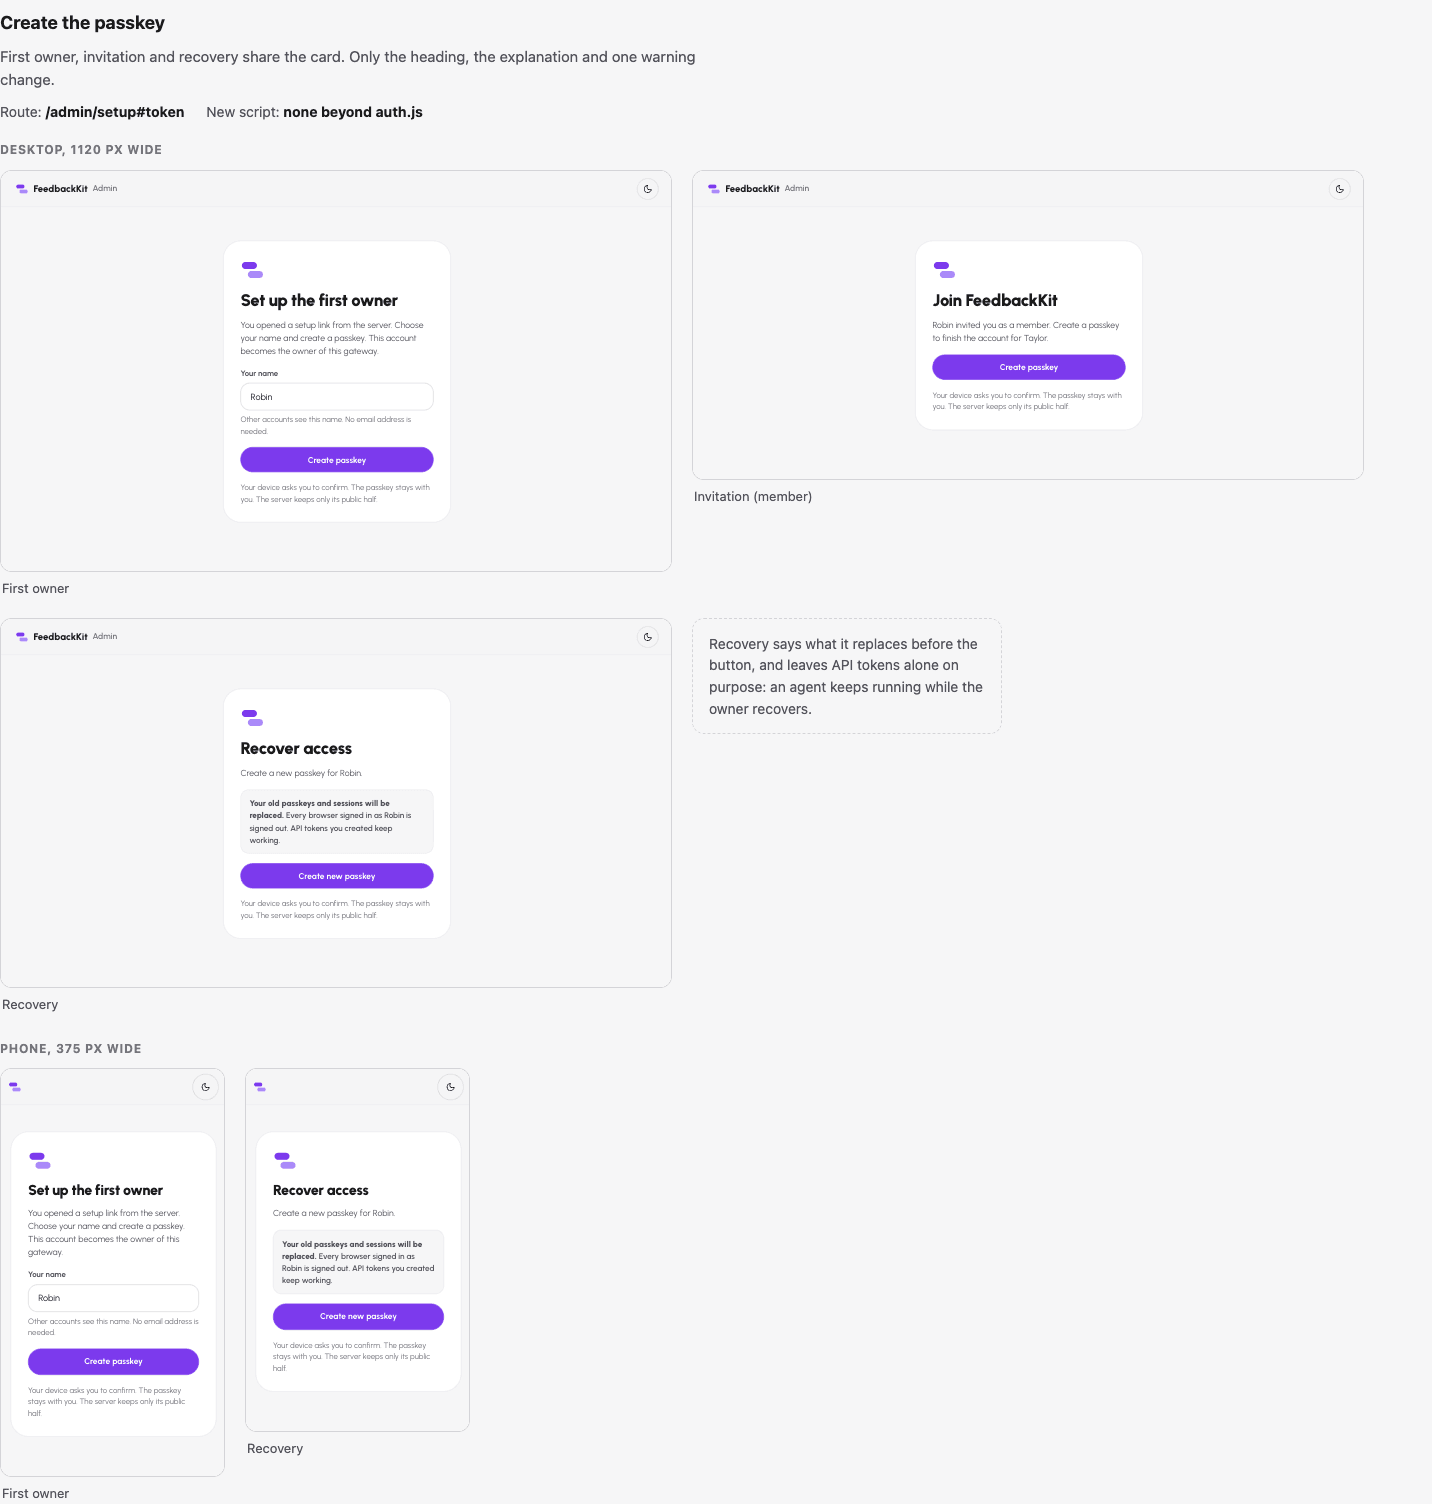
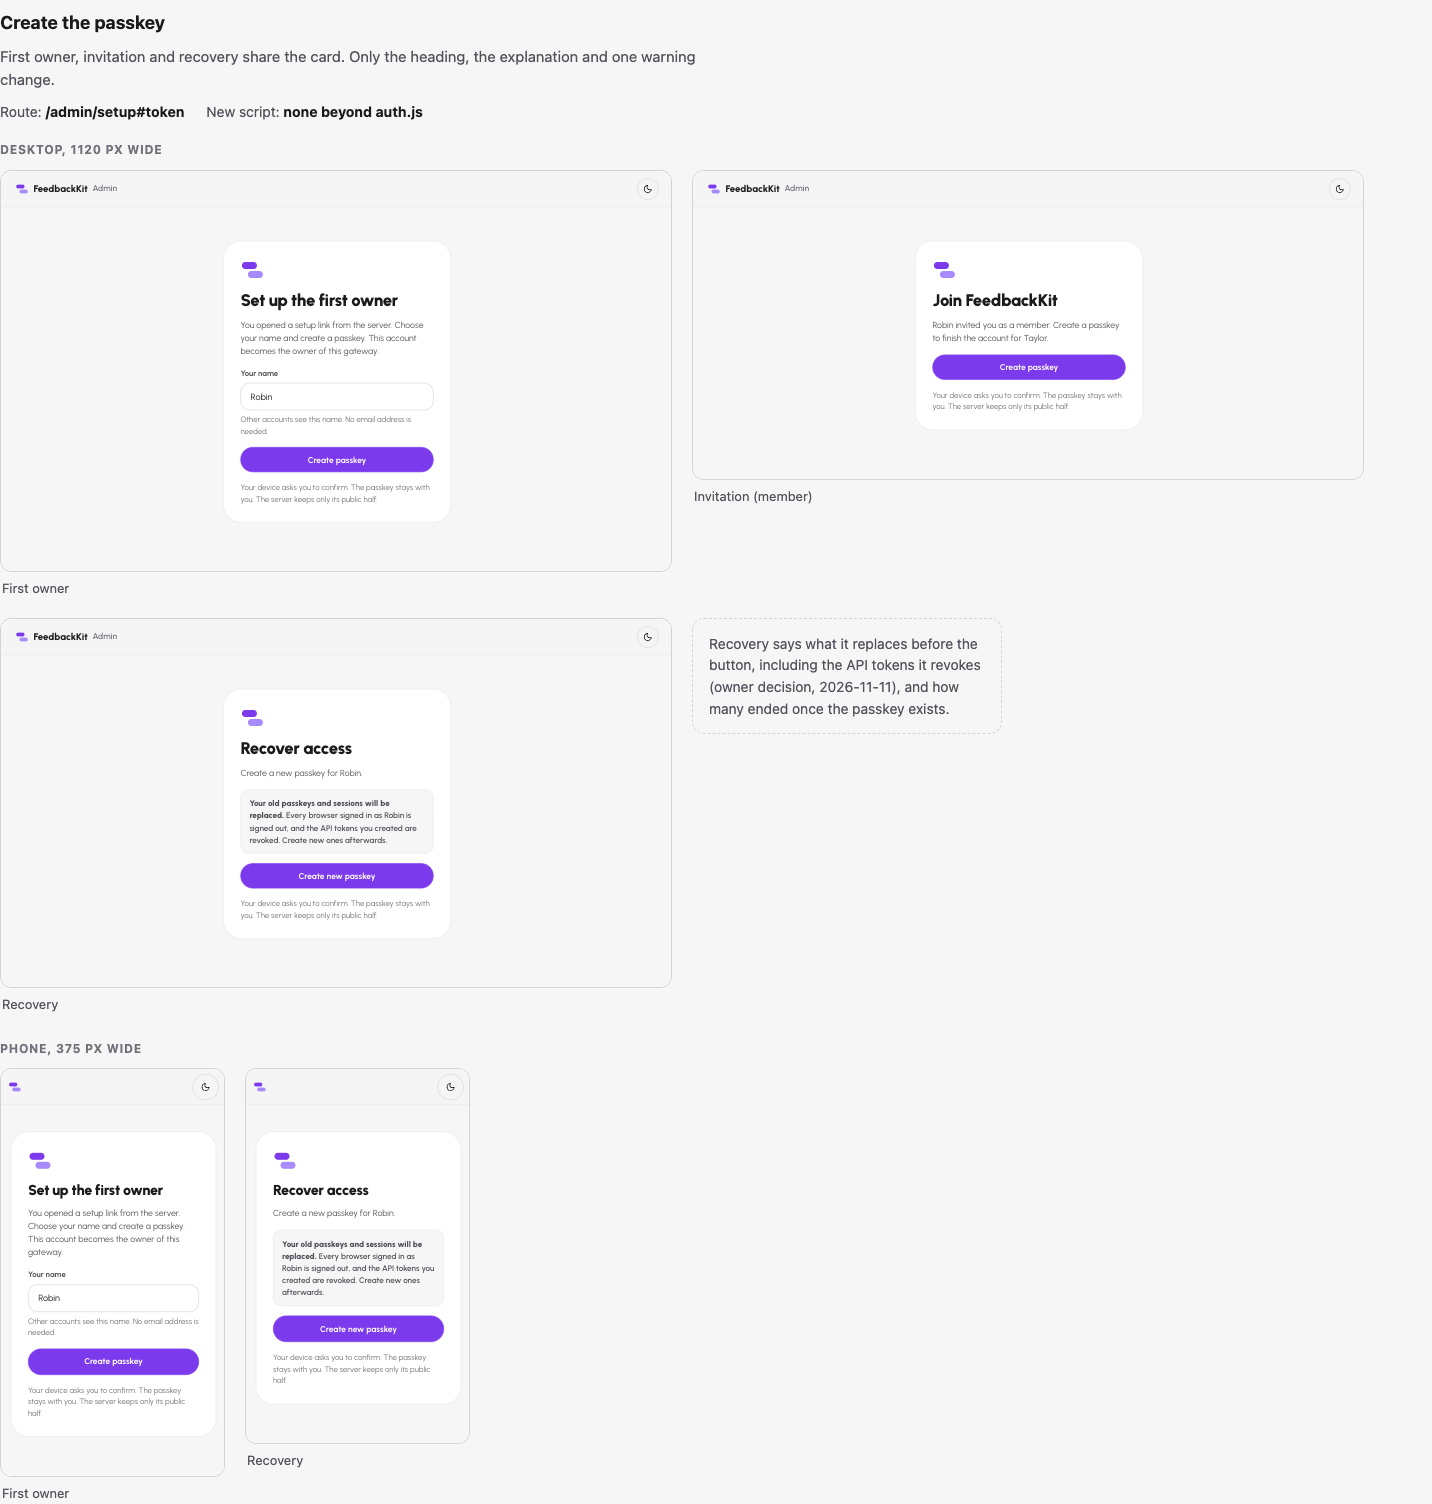
Record the owner's three answers in the mock: recovery revokes the account's API tokens

diff --git a/docs/design/mockups/accounts.html b/docs/design/mockups/accounts.html
@@ -70,7 +70,7 @@ table.cmp tr:last-child td{border-bottom:0}
     <li><a href="#tokens">6 API tokens</a></li>
     <li><a href="#compare">Side by side</a></li>
     <li><a href="#recommendation">Recommendation</a></li>
-    <li><a href="#questions">Open questions</a></li>
+    <li><a href="#questions">Decided</a></li>
   </ul>
 
   <div class="cols">
@@ -134,12 +134,13 @@ table.cmp tr:last-child td{border-bottom:0}
   </section>
 
   <section class="variant" id="questions">
-    <h2>Open questions</h2>
+    <h2>Decided</h2>
     <div class="panel" style="max-width:900px">
+      <p class="help">Answered by the owner on 2026-11-11 ("Ja, wie empfohlen"). The copy below follows them.</p>
       <ul>
-        <li><b>Member access.</b> Until Step 4, a member can use the whole admin except accounts and tokens. The mock says so in the invitation dialog. Is that acceptable for an interim?</li>
-        <li><b>Token limits.</b> A token limited to some projects cannot create projects or open System. The mock states it in the create dialog. Confirm that rule or ask for another.</li>
-        <li><b>Recovery and API tokens.</b> Recovery replaces passkeys and sessions and leaves API tokens running, so an agent keeps working while the owner recovers. After a suspected break-in, tokens stay a way in until someone revokes them. Should recovery revoke them too?</li>
+        <li><b>Member access.</b> Until Step 4, a member can use the whole admin except accounts and tokens. The invitation dialog says so.</li>
+        <li><b>Token limits.</b> A token limited to some projects cannot create projects or open System. The create dialog says so.</li>
+        <li><b>Recovery and API tokens.</b> Recovery revokes the API tokens that account created, because recovery is also the path after a lost or exposed credential. The owner creates new tokens afterwards. The setup page says so before the passkey is created and says how many ended afterwards; the host command has <code>--keep-tokens</code> to opt out.</li>
       </ul>
     </div>
   </section>
@@ -448,10 +449,10 @@ const SETUP_MSG = {
 function setupPage(kind, state) {
   const c = SETUP_COPY[kind];
   const lead = '<svg width="40" height="40" aria-hidden="true"><use href="#mark"/></svg>';
-  const warn = kind === "recovery" ? '<div class="note"><b>Your old passkeys and sessions will be replaced.</b> Every browser signed in as Robin is signed out. API tokens you created keep working.</div>' : "";
+  const warn = kind === "recovery" ? '<div class="note"><b>Your old passkeys and sessions will be replaced.</b> Every browser signed in as Robin is signed out, and the API tokens you created are revoked. Create new ones afterwards.</div>' : "";
   let card;
   if (state === "done") {
-    card = '<div class="login-card">' + lead + '<h1>Passkey created</h1><p>You are signed in as Robin, ' + (kind === "invite" ? "member" : "owner") + '.</p>' + (kind === "recovery" ? "" : '<div class="note" role="status">Add a second passkey in Your account, so that losing this one does not lock you out.</div>') + '<a class="b violet full" href="#">Open the admin</a></div>';
+    card = '<div class="login-card">' + lead + '<h1>Passkey created</h1><p>You are signed in as Robin, ' + (kind === "invite" ? "member" : "owner") + '.</p>' + (kind === "recovery" ? '<div class="note" role="status">2 API tokens you created were revoked. Create new ones under API tokens.</div>' : '<div class="note" role="status">Add a second passkey in Your account, so that losing this one does not lock you out.</div>') + '<a class="b violet full" href="#">Open the admin</a></div>';
   } else if (state === "badlink") {
     const next = kind === "first" ? "Run <code class=\"mono\">feedbackkit-admin setup-link</code> on the server for a new link." : kind === "invite" ? "Ask an owner for a new invitation." : "Run <code class=\"mono\">feedbackkit-admin recovery-link</code> on the server for a new link.";
     card = '<div class="login-card">' + lead + '<h1>This link no longer works</h1><p>Setup, invitation and recovery links work once and expire. This one was used, has expired or is not valid.</p><p>' + next + '</p><a class="b ghost full" href="#">Go to sign in</a></div>';
@@ -573,7 +574,7 @@ const SECTIONS = [
   { id: "setup-main", name: "Create the passkey", intro: "First owner, invitation and recovery share the card. Only the heading, the explanation and one warning change.", meta: ["Route: <b>/admin/setup#token</b>", "New script: <b>none beyond auth.js</b>"],
     desktop: [{ vp: D, caption: "First owner", html: setupPage("first") }, { vp: D, caption: "Invitation (member)", html: setupPage("invite") }, { vp: D, caption: "Recovery", html: setupPage("recovery") }],
     phone: [{ vp: P, caption: "First owner", html: setupPage("first") }, { vp: P, caption: "Recovery", html: setupPage("recovery") }],
-    note: "Recovery says what it replaces before the button, and leaves API tokens alone on purpose: an agent keeps running while the owner recovers." },
+    note: "Recovery says what it replaces before the button, including the API tokens it revokes (owner decision, 2026-11-11), and how many ended once the passkey exists." },
   { id: "setup-states", name: "Setup states", intro: "The states of the same page. A cancelled prompt keeps the link usable. A used, expired or unknown link ends here with the next step named.", meta: ["Cancel: <b>link stays valid</b>"],
     cards: [
       ["Waiting for the passkey prompt", setupPage("first", "waiting")], ["Prompt cancelled", setupPage("first", "cancelled")], ["Passkey could not be saved", setupPage("first", "failed")], ["Done, first owner", setupPage("first", "done")],

diff --git a/docs/design/mockups/accounts.md b/docs/design/mockups/accounts.md
@@ -104,7 +104,7 @@ The cheapest build is C for the account area, A for sign-in and A for tokens. No
 - An invitation and a recovery link are shown once, in a dialog, with a copy button. The server keeps only a hash, so the dialog says the link cannot be shown again.
 - The link token sits after the `#`, so the server and proxy logs never receive it. `auth.js` reads it and removes it from the address bar with `history.replaceState`.
 - API tokens: name, Read or Write, all projects or some, expiry of 30, 90 (default) or 365 days. No token without an expiry. A token never manages accounts or tokens, and the page says so.
-- Recovery replaces the old passkeys and revokes the sessions of that account. It leaves API tokens alone on purpose, and the page says that too.
+- Recovery replaces the old passkeys, revokes the sessions of that account and revokes the API tokens it created (owner decision, 2026-11-11: recovery is also the path after a lost or exposed credential). The page says so before the passkey is created, and says how many tokens ended afterwards.
 - A failed attempt never produces the word "locked". The throttle message says no account is locked and a valid passkey is never blocked.
 - Examples come from the product's fictional set: Robin, Sam, Taylor, `example.org`.
 
@@ -192,7 +192,8 @@ The text the UI phase uses verbatim. The `accounts.html` frames use the same str
 | Invitation, text | Robin invited you as a member. Create a passkey to finish the account for Taylor. |
 | Recovery, heading | Recover access |
 | Recovery, text | Create a new passkey for Robin. |
-| Recovery, warning | **Your old passkeys and sessions will be replaced.** Every browser signed in as Robin is signed out. API tokens you created keep working. |
+| Recovery, warning | **Your old passkeys and sessions will be replaced.** Every browser signed in as Robin is signed out, and the API tokens you created are revoked. Create new ones afterwards. |
+| Recovery, done | Passkey created. You are signed in as Robin, owner. 2 API tokens you created were revoked. Create new ones under API tokens. (The number comes from `tokensRevoked` in the answer; with none: nothing is shown.) |
 | Button | Create passkey (recovery: Create new passkey) |
 | Help | Your device asks you to confirm. The passkey stays with you. The server keeps only its public half. |
 | Cancelled | Passkey creation was cancelled and nothing was saved. Select Create passkey to try again. |
@@ -268,11 +269,15 @@ The text the UI phase uses verbatim. The `accounts.html` frames use the same str
 | Side navigation (C) | Your account, Accounts, API tokens |
 | Tabs (B) | Access with Accounts, API tokens |
 
-## Open questions
+## Decided
 
-- **Member access.** Until Step 4, a member can use the whole admin except accounts and tokens. The invitation dialog says so. Is that acceptable for the interim?
-- **Token limits.** A token limited to some projects cannot create projects or open System. The create dialog says so. Is that the rule you want?
-- **Recovery and API tokens.** Recovery replaces passkeys and sessions and leaves API tokens running, so an agent keeps working while the owner recovers. If recovery follows a suspected break-in, tokens stay a way in until someone revokes them. Should recovery revoke them too?
+Answered by the owner on 2026-11-11 ("Ja, wie empfohlen"), relayed by the review session. The copy above follows them. Recorded as S23 in `scope.md` of the backend pull request.
+
+- **Member access.** Until Step 4, a member can use the whole admin except accounts and tokens. The invitation dialog says so.
+- **Token limits.** A token limited to some projects cannot create projects or open System. The create dialog says so.
+- **Recovery and API tokens.** Recovery revokes the API tokens that account created, because recovery is also the path after a lost or exposed credential. The owner creates new tokens afterwards. The host command has `--keep-tokens` to opt out.
+
+The variants were approved the same day: the account area as a name link with side navigation (C), recovery folded under "Locked out?" (A), a new API token in a dialog (A).
 
 ## What this does not cover
 
